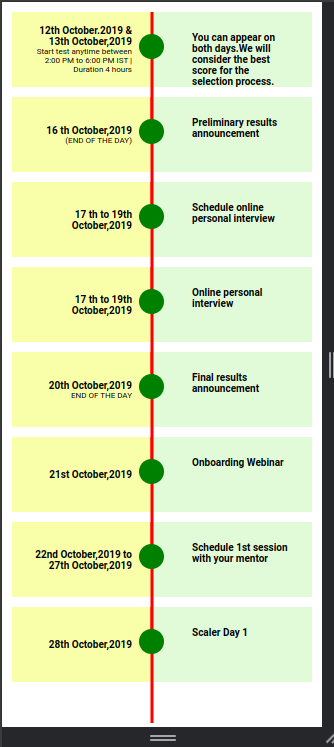
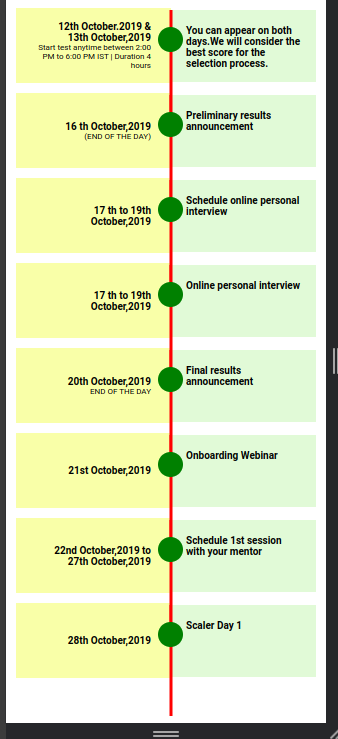
image updted

Changed region(s): [[0.0, 0.0, 1.0, 1.0]]

diff --git a/styles/sass/main.scss b/styles/sass/main.scss
@@ -72,7 +72,14 @@ body {
 @media screen and (max-width:768px){
   .l-card{
     font-size: 10px;
+    &__c-card{
+      &--right{
+        padding: 15px;
+        height: 42px;
+      }
+    }
   }
+
   .text{
     &__data{
       font-size: 8px;

diff --git a/styles/css/style.css b/styles/css/style.css
@@ -71,6 +71,10 @@ body {
   .l-card {
     font-size: 10px;
   }
+  .l-card__c-card--right {
+    padding: 15px;
+    height: 42px;
+  }
   .text__data {
     font-size: 8px;
   }
